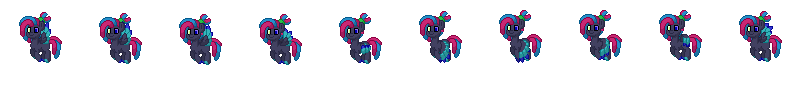
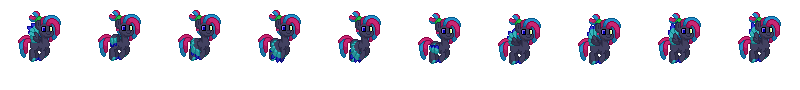
sprites

diff --git a/index.html b/index.html
@@ -4,6 +4,7 @@
     <meta charset="UTF-8">
     <meta name="viewport" content="width=device-width, initial-scale=1.0">
     <link rel="stylesheet" href="css/style.css">
+    <link rel="stylesheet" href="css/style2.css">
     <link rel="stylesheet" href="css/style.scss">
     <title>AbbyPortfolio</title>
     <link rel = "icon" type = "image/png" href = "media/IMG_1426.PNG">
@@ -44,10 +45,11 @@
       <br />
       <br />
       <h2 id="bio"> Sometimes the only choices you have are bad ones, but you still have to choose. - <em>12th Doctor, BBC Doctor Who</em></h2>
-      <p id="bio1">I am currently studying to become a full-stack developer. I would like to later learn about AR and VR development.</p>
-      <p id="biomini">In my free time, I dabble in music and art. You can see it in either my instagram or my deviantart. (see art in the nav bar)</p>
+      <p id="bio1">Full-stack developer. Freelance digital artist. Some day i'd like to learn about AR and VR technologies and their development.</p>
+      <p id="biomini">In my free time, I dabble in music and art. You can see it in either my instagram, deviantart or Tumblr. (see art in the nav bar)</p>
       <div class="spk"></div>
-      <div class="skh"></div>
+      <div class="juju"></div>
+      <!-- <div class="skh"></div> -->
       <div id="briska"></div>
     <br />
     <br />
@@ -128,6 +130,7 @@
         <img id="pic6" src="media/IMG_2297.PNG" alt="purple swirls and smoke" width="250" height="250"></a>
         </div>
         <hr />
+        <div class="longpone"></div>
         <p id="more">More code :) </p>
         <div class="container8">
         <div class="spin grid2">

diff --git a/css/style.css b/css/style.css
@@ -159,6 +159,29 @@ body {
     }
 } */
 
+.juju {
+    max-width: 100%;
+    position: absolute;
+    top: 50%;
+    left: 50%;
+    transform: translate(-50%, -50%);
+    width: calc(800px /10 );
+    height: 90px;
+    background: url(June\ Bug-fly.png);
+    animation: animate 450ms steps(10) infinite;
+    text-align: left;
+    margin: 22px -86px;
+}
+
+@keyframes animate {
+    from {
+        background-position: 800px;
+    }
+    to {
+        background-position: 0;
+    }
+}
+
 .skh {
     max-width: 100%;
     position: absolute;

diff --git a/css/style2.css b/css/style2.css
@@ -1,0 +1,22 @@
+.longpone {
+    max-width: 100%;
+    position: absolute;
+    top: 50%;
+    left: 50%;
+    transform: translate(-50%, -50%);
+    width: calc(1280px /16);
+    height: 90px;
+    background: url(Sparkly\ Keys\ Looong-trot.png);
+    animation: animate 450ms steps(16) infinite;
+    text-align: left;
+    margin: 2361px -4px;
+}
+
+@keyframes animate {
+    from {
+        background-position: 1280px;
+    }
+    to {
+        background-position: 0;
+    }
+}
